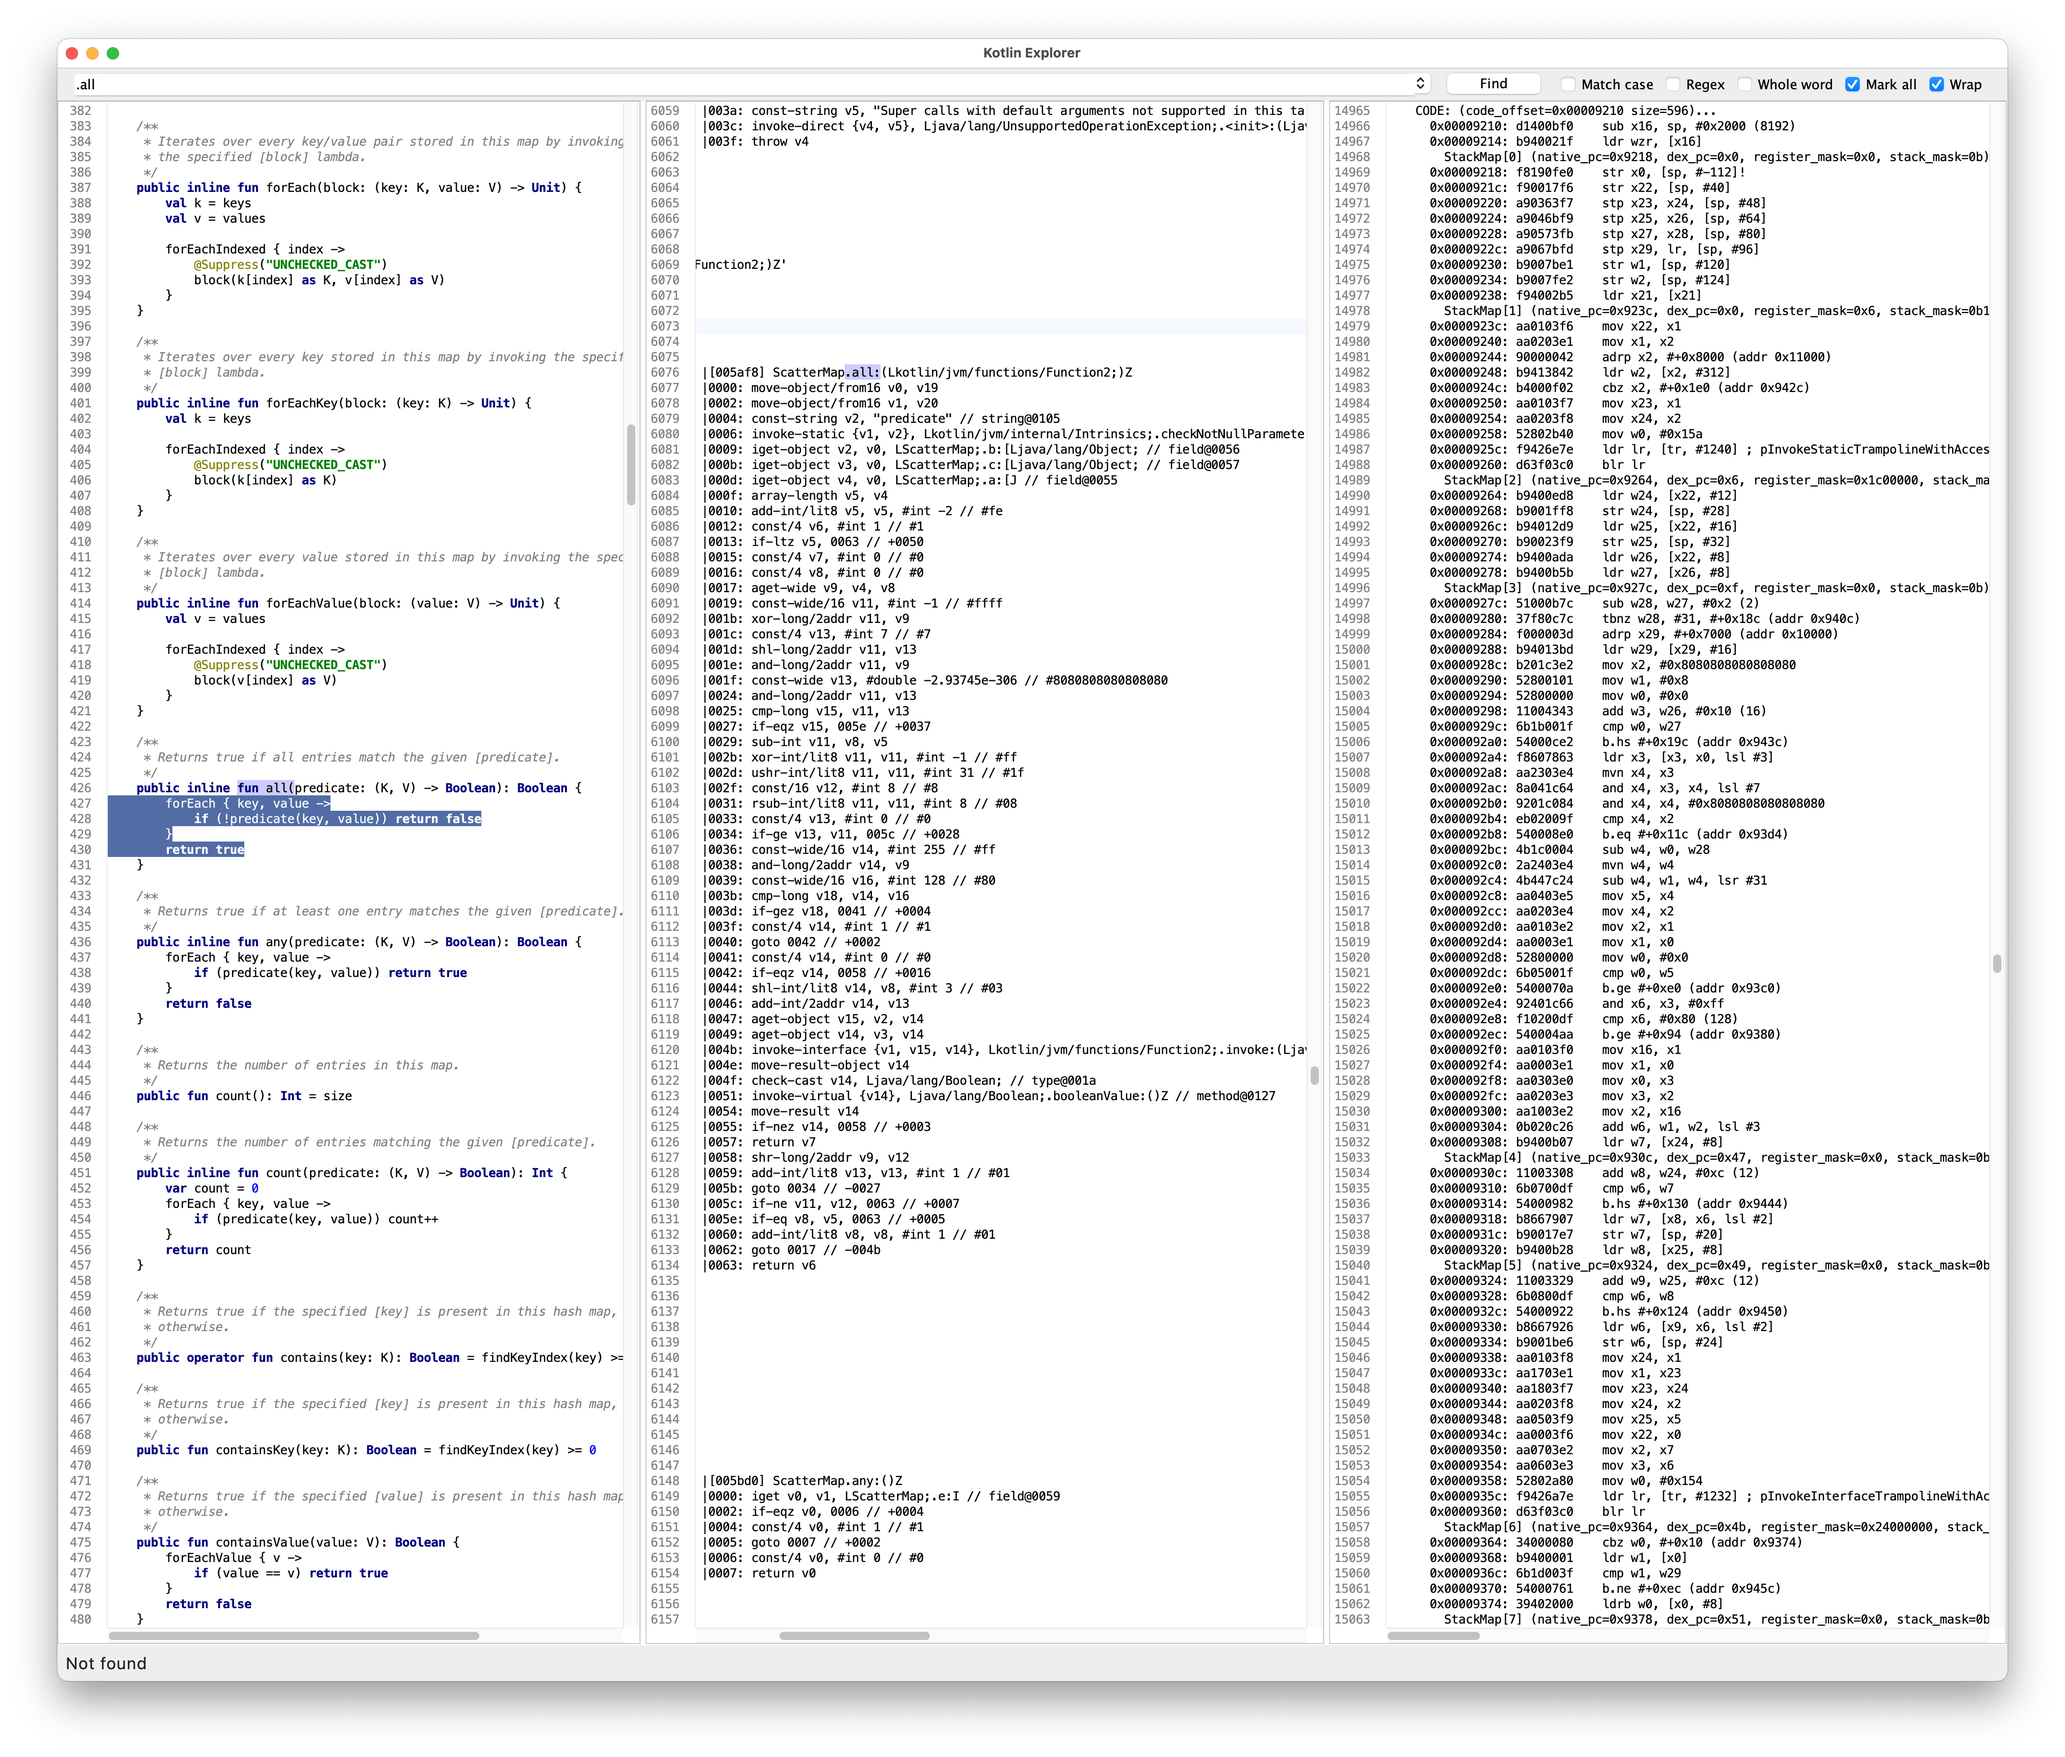
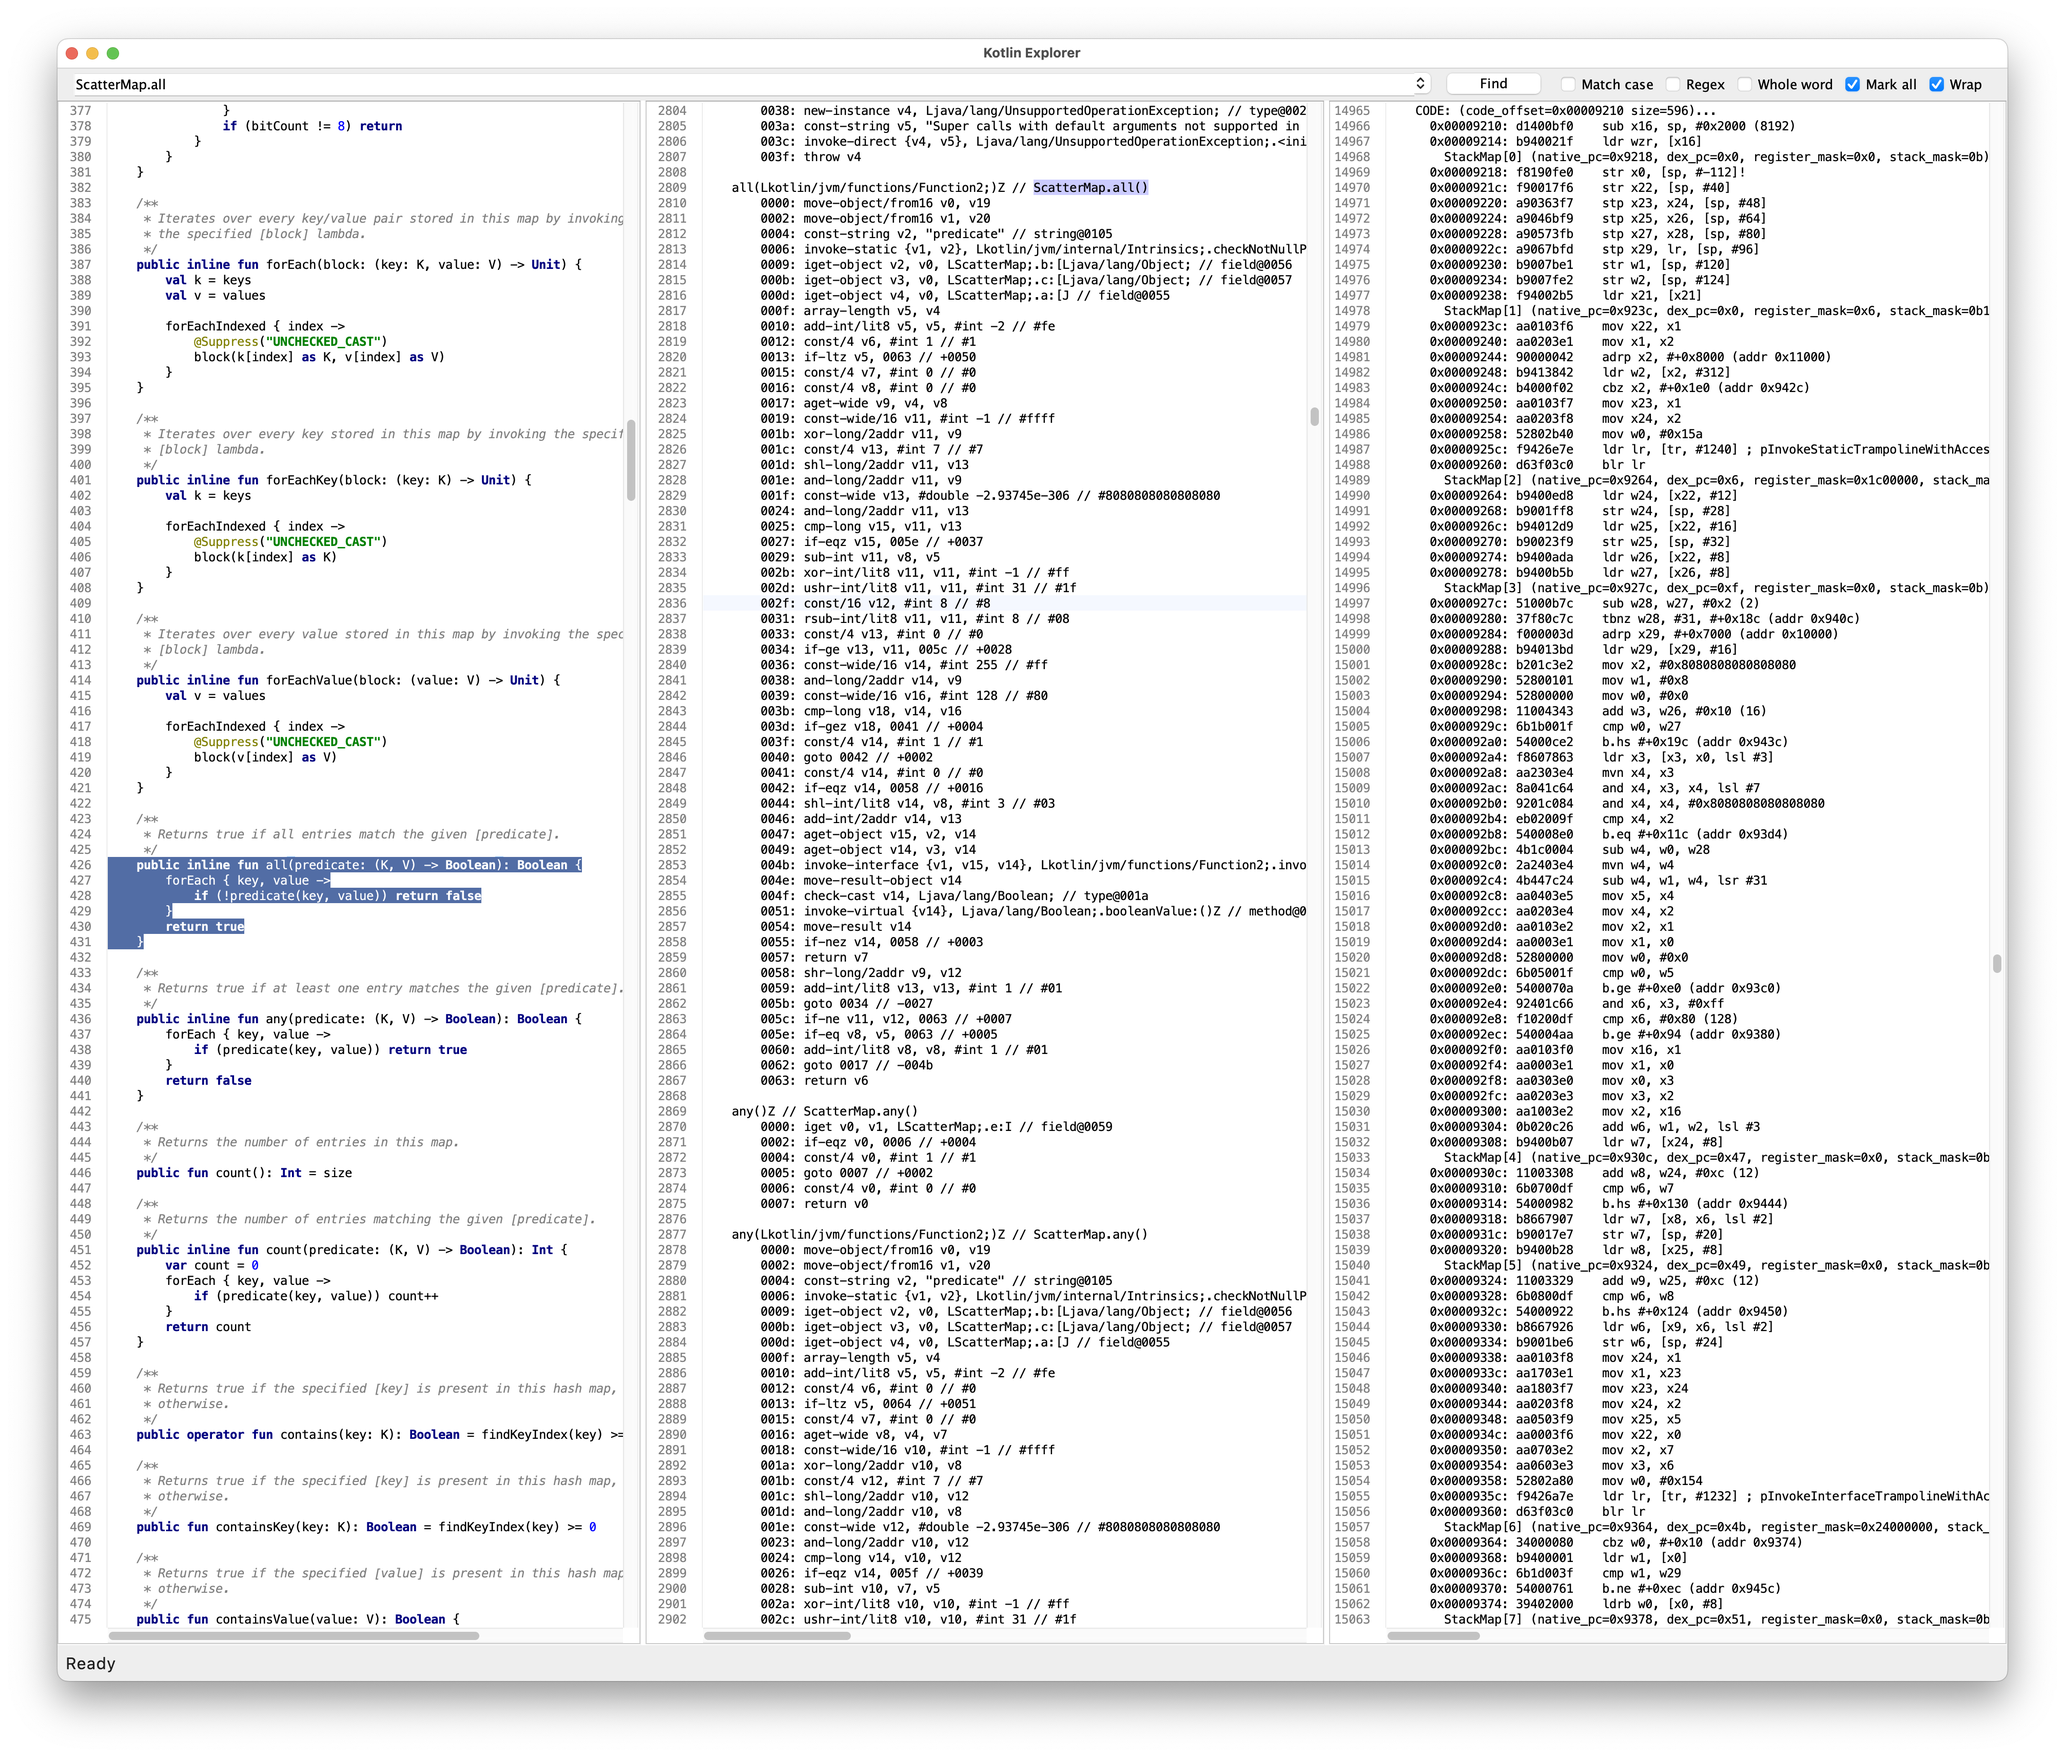
Clean up dex output

diff --git a/src/jvmMain/kotlin/dev/romainguy/kotlin/explorer/Disassembly.kt b/src/jvmMain/kotlin/dev/romainguy/kotlin/explorer/Disassembly.kt
@@ -46,7 +46,9 @@ fun CoroutineScope.disassemble(
         )
 
         if (kotlinc.exitCode != 0) {
-            launch { onDex(kotlinc.output) }
+            launch {
+                onDex(kotlinc.output.replace(path.parent.toString() + "/", ""))
+            }
             return@launch
         }
 
@@ -73,11 +75,12 @@ fun CoroutineScope.disassemble(
             directory = directory
         )
 
-        launch { onDex(dexdump.output) }
-
         if (dexdump.exitCode != 0) {
+            launch { onDex(dexdump.output) }
             return@launch
         }
+
+        launch { onDex(filterDex(dexdump.output)) }
 
         launch { onStatusUpdate("AOT compilation…") }
 
@@ -199,4 +202,98 @@ private fun filterOat(oat: String): String {
         return oat.substring(index)
     }
     return oat
+}
+
+private fun filterDex(dex: String) = buildString {
+    val lines = dex.lineSequence().iterator()
+
+    while (lines.hasNext()) {
+        if (!lines.consumeUntil("Class #")) break
+
+        val line = lines.next()
+        val className = extractDexClassName(line)
+        appendLine("class $className")
+
+        if (!lines.consumeUntil("Direct methods")) break
+        lines.extractMethods(this, className, "        ")
+    }
+}
+
+private val DexBytecodePattern = Regex("^[0-9a-fA-F]+:[^|]+\\|([0-9a-fA-F]+: .+)")
+private val DexMethodNamePattern = Regex("^name\\s+:\\s+'(.+)'")
+private val DexMethodTypePattern = Regex("^type\\s+:\\s+'(.+)'")
+private val DexMethodProperty = Regex("^(\\s+[a-zA-Z ]+[:-].*)|([0-9a-fA-F]+:[^|]+\\|\\[.+)")
+private val DexClassNamePattern = Regex("Class descriptor\\s+:\\s+'L(.+);'")
+
+private fun Iterator<String>.extractMethods(
+    output: StringBuilder,
+    className: String,
+    indent: String
+) {
+    while (hasNext()) {
+        var line = next()
+        if (line.isEmpty()) break
+
+        if (line.startsWith("    #")) {
+            if (!hasNext()) break
+            line = next()
+
+            val name = extractMethodName(line)
+
+            if (!hasNext()) break
+            line = next()
+
+            val type = extractMethodType(line)
+
+            output.appendLine("    $name$type // $className.$name()")
+
+            while (hasNext()) {
+                line = next()
+
+                val match = DexBytecodePattern.matchEntire(line)
+                if (match != null && match.groupValues.isNotEmpty()) {
+                    output.appendLine("$indent${match.groupValues[1]}")
+                } else if (!DexMethodProperty.matches(line)) {
+                    println(line)
+                    break
+                }
+            }
+
+            output.appendLine()
+        } else if (!line.trim().startsWith("Virtual methods")) {
+            break
+        }
+    }
+}
+
+private fun extractMethodName(line: String): String {
+    val match = DexMethodNamePattern.matchEntire(line.trim())
+    if (match != null && match.groupValues.isNotEmpty()) {
+        return match.groupValues[1]
+    }
+    return "<UNKNOWN>"
+}
+
+private fun extractMethodType(line: String): String {
+    val match = DexMethodTypePattern.matchEntire(line.trim())
+    if (match != null && match.groupValues.isNotEmpty()) {
+        return match.groupValues[1]
+    }
+    return "<UNKNOWN>"
+}
+
+private fun extractDexClassName(line: String): String {
+    val match = DexClassNamePattern.matchEntire(line.trim())
+    if (match != null && match.groupValues.isNotEmpty()) {
+        return match.groupValues[1].replace('/', '.')
+    }
+    return "<UNKNOWN>"
+}
+
+private fun Iterator<String>.consumeUntil(prefix: String): Boolean {
+    while (hasNext()) {
+        val line = next()
+        if (line.trim().startsWith(prefix)) return true
+    }
+    return false
 }
